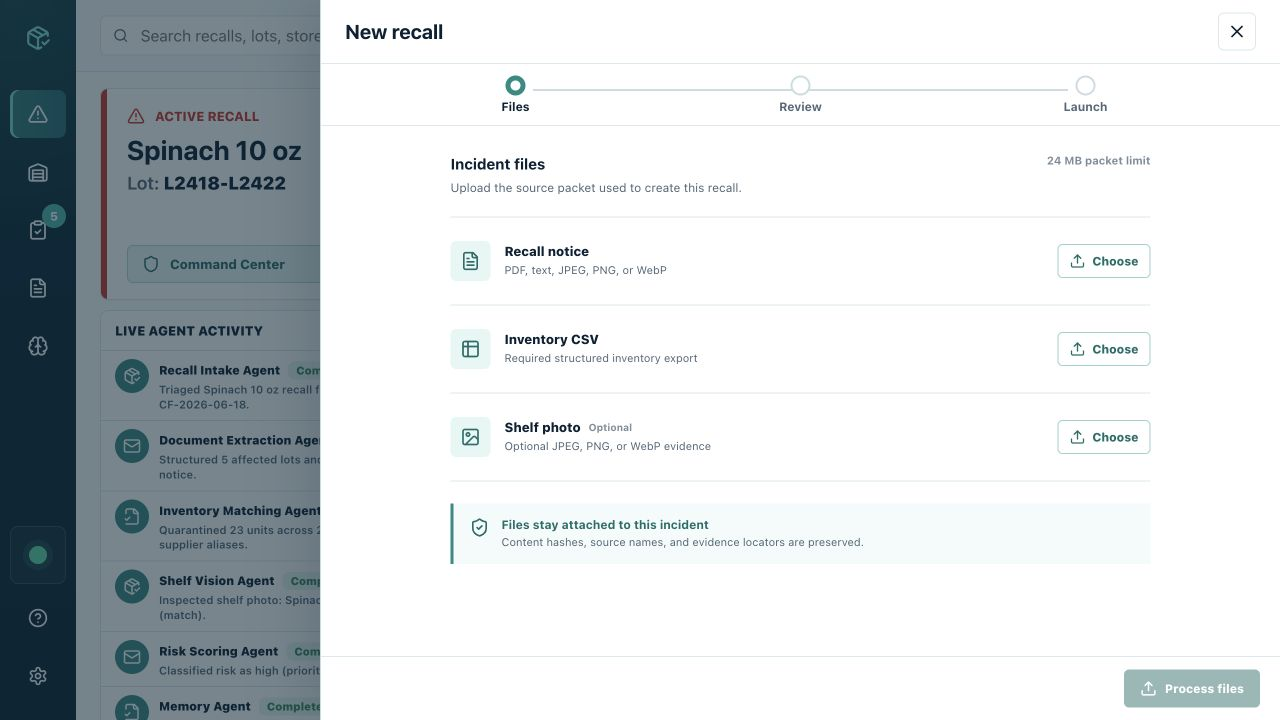
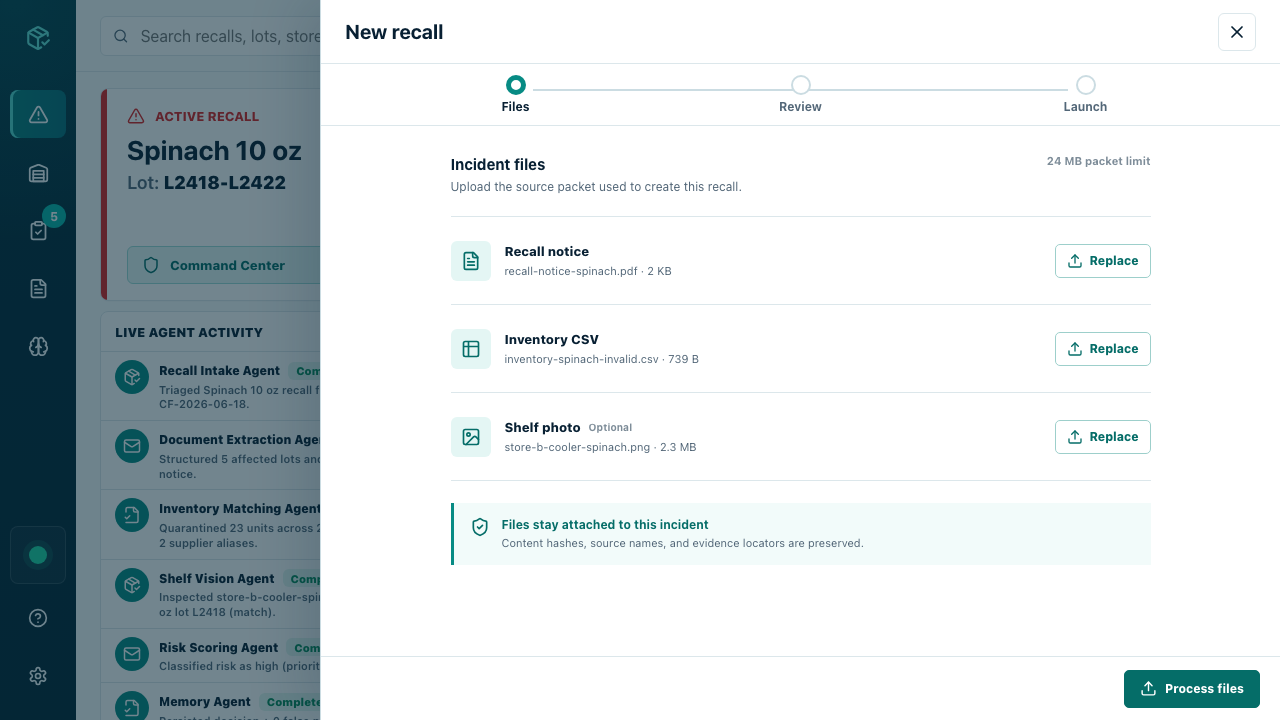
docs: capture durable intake workflow

diff --git a/README.md b/README.md
@@ -135,7 +135,9 @@ The current dashboard implementation is visually tracked against:
 - `docs/design-assets/screenshots/dashboard-mobile.png`
 - `docs/design-assets/screenshots/mission-control-desktop.png`
 - `docs/design-assets/screenshots/mission-control-mobile.png`
-- `docs/design-assets/screenshots/intake-files-desktop.png`
+- [Populated intake files - desktop](docs/design-assets/screenshots/intake-files-desktop.png)
+- [Provenance and warning review - desktop](docs/design-assets/screenshots/intake-review-desktop.png)
+- [Inventory warning review - mobile](docs/design-assets/screenshots/intake-review-mobile.png)
 
 ## Run The Backend
 

diff --git a/docs/submission-checklist.md b/docs/submission-checklist.md
@@ -13,7 +13,7 @@ Track: **Autopilot Agent** (primary), **Agent Society** (secondary).
 - [x] Durable real incident intake backend and committed sample packet
 - [x] Demo script (`docs/demo-script.md`)
 - [x] **Push the durable Mission Control milestone**
-- [ ] **Verify real ambiguous intake in desktop and mobile browsers** and capture populated review evidence
+- [x] **Verify real ambiguous intake in desktop and mobile browsers** and capture populated review evidence
 - [ ] **Deploy the backend on Alibaba Cloud** and capture verifiable service evidence
 - [ ] **Publish a working test URL** that remains available throughout judging
 - [ ] **Verify live Qwen mode** in the deployed app and capture model/source evidence